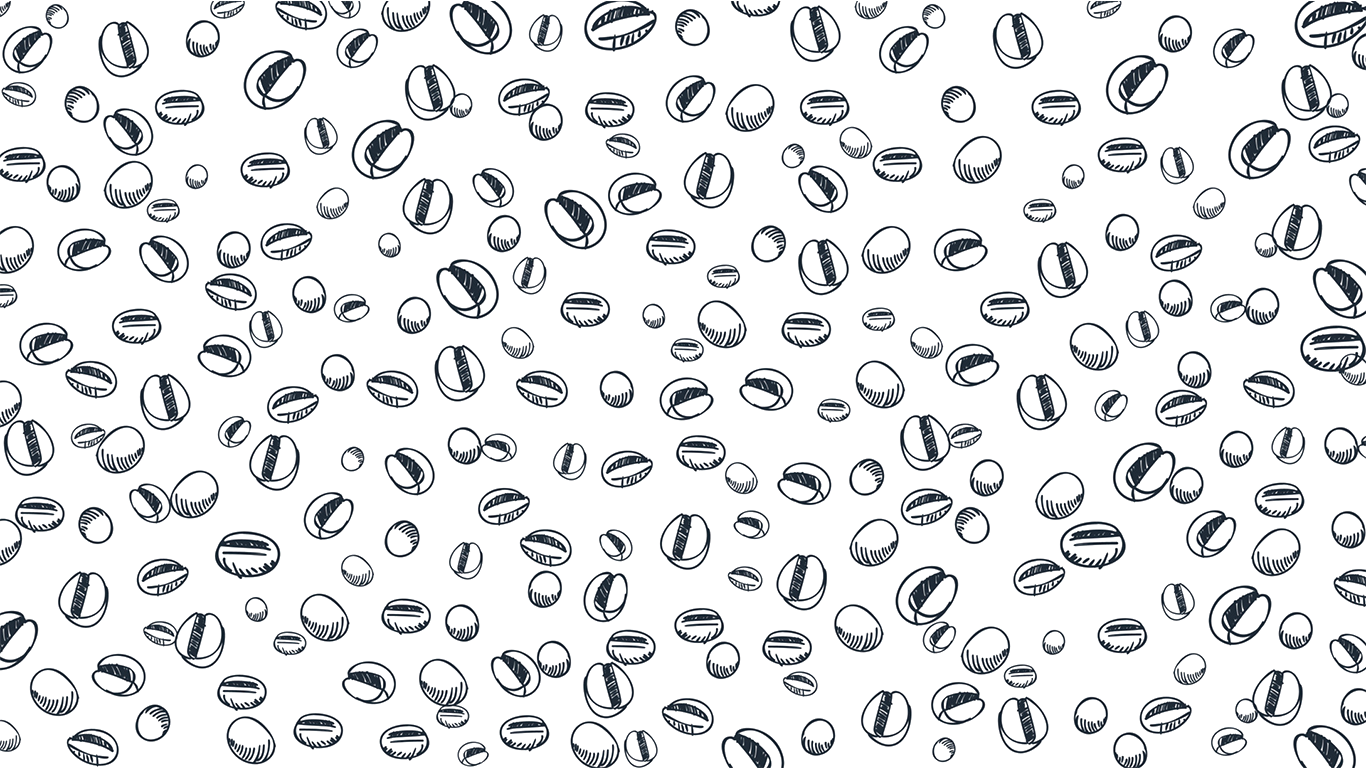
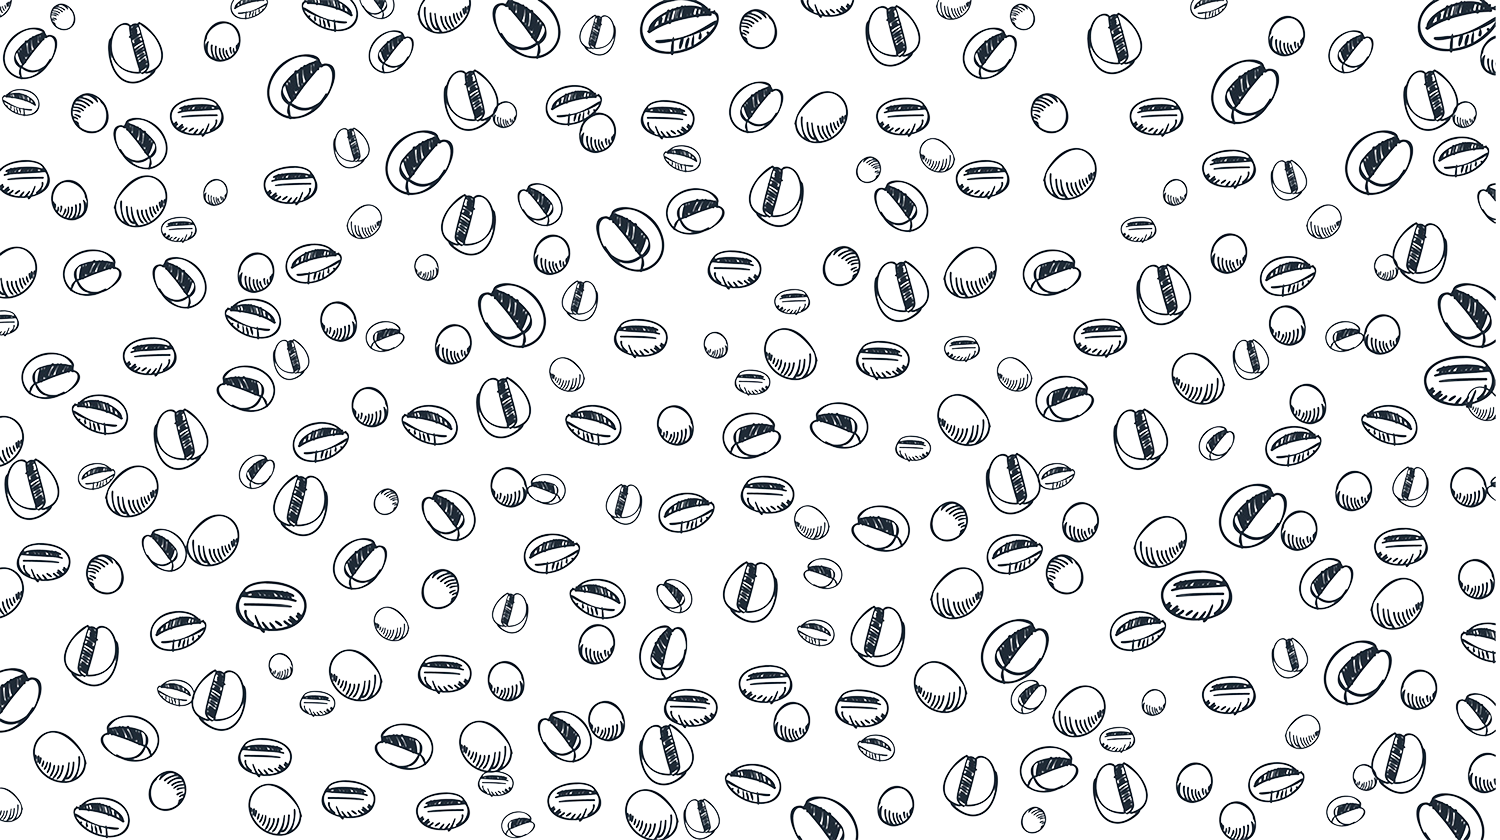
add(profileHeader): add a bg image

diff --git a/src/Components/Pages/Profile/ProfileHeader/index.jsx b/src/Components/Pages/Profile/ProfileHeader/index.jsx
@@ -3,16 +3,11 @@ import { Typography } from "../../../Typography"
 export const ProfileHeader = () => {
   return (
     <div className="w-screen h-[4rem] xs:h-[8rem] bg-[#96927A] flex flex-col justify-center items-center relative cursor-pointer drop-shadow-xl">
-      <div className="flex flex-col justify-center items-center h-full w-full">
+      <div className="flex flex-col justify-center items-center h-full w-full bg-[url('../../../.././src/assets/images/coffeePattern.png')] bg-cover">
         <Typography text="Donate" type="important" color="white" family="lato"/>
-        <Typography text="buy us a coffee" type="p1" color="white" family="lato" styles="mt-[-0.75rem] pl-[2rem] xs:pl-[6rem]"/>
+        <Typography text="buy us a coffee!" type="p1" color="white" family="lato" styles="mt-[-0.75rem] pl-[2rem] xs:pl-[6rem]"/>
       </div>
-       {/*  <img src="../../../.././src/assets/icons/pointerIcon.png" className="absolute bottom-[-0.5rem] xs:bottom-[-1rem] left-[30vw] xs:left-[44vw] w-[2rem] h-[2rem] xs:w-[4rem] xs:h-[4rem] rotate-[67deg]" alt="arrow icon"/> */}
+        <img src="../../../.././src/assets/icons/pointerIcon.png" className="absolute bottom-[-0.5rem] xs:bottom-[-1rem] left-[30vw] xs:left-[44vw] w-[2rem] h-[2rem] xs:w-[4rem] xs:h-[4rem] rotate-[67deg]" alt="arrow icon"/>
       </div>
   )
 }
-
-/* bg-[#fef3c6] */
-/* bg-[#96927A] */
-/* bg-gradient-to-b from-[#02040C] to-[#0A4148] */
-/* bg-[url('../../../.././src/assets/images/coffeePattern.png')] */

diff --git a/src/Pages/Album.jsx b/src/Pages/Album.jsx
@@ -1,5 +1,4 @@
 import { AlbumHeader, AlbumTracks } from "../Components";
-import { DropDownMenu } from "../Components/Dropdown";
 import { Layout } from "../Components/Layout";
 import { songs } from "../data/data.js";
 
